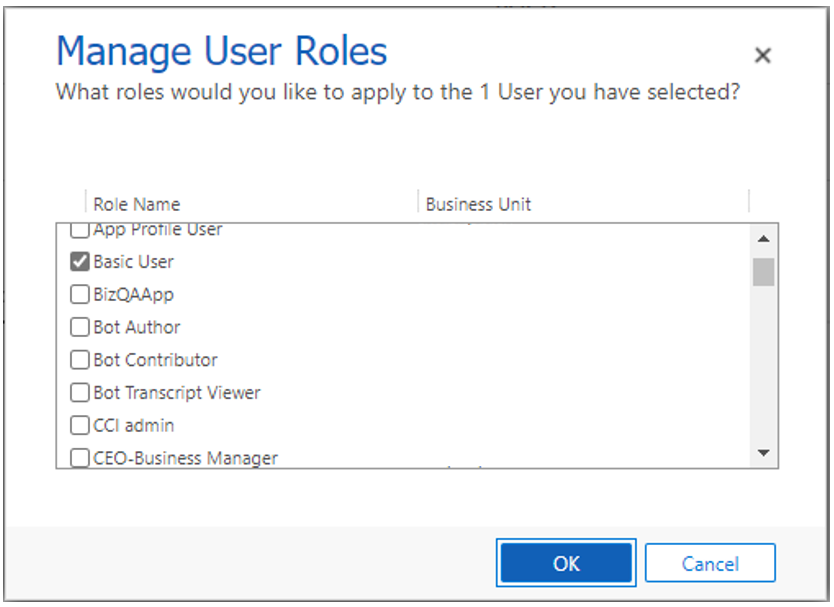
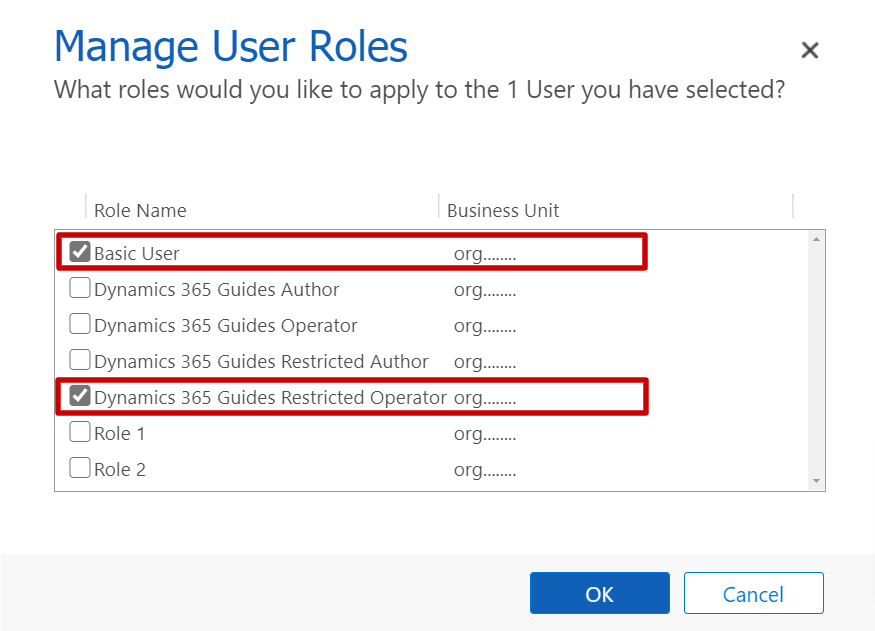
update to add address Cang's feedback

diff --git a/mr-docs/guides/assign-role.md b/mr-docs/guides/assign-role.md
@@ -13,12 +13,24 @@ ms.reviewer: v-brycho
 
 [!include [rename-banner](~/includes/cc-data-platform-banner.md)]
 
-If you're a Microsoft Dynamics 365 Guides admin, you can assign an **Author** or **Operator** role to users to limit what they can do in the apps. The following table describes the privileges that each role grants.
+If you're a Microsoft Dynamics 365 Guides admin, you can assign an **Author** or **Operator** role to users to limit what they can do in the apps. The additional **Restricted** provide an extra layer of control.  The following table describes the privileges that each role grants.
 
 | Role | Description |
 |---|---|
 | Author | Use the PC app and HoloLens app to create, edit, and operate guides. Users who have the **Author** role can also rename and deactivate existing guides. |
 | Operator | Use the HoloLens app to view and operate a guide. Users who have the **Operator** role can also save time by skipping the **Select Mode** dialog box when they open a guide. |
+|Restricted Author| Use the PC app and HoloLens app to create, edit, and operate guides or use guides content that the user created or was explicitly shared with them.|
+|Restricted Operator|  Use the HoloLens app to view and operate a guide or access guides content that the user created or was explicitly shared with them. |
+
+ Restricted Author and Restricted Operator roles are used to limit access to Guides. Users who are assigned the restricted Author or Operator roles **do not** inherit access to any Guides or Guide content (3D models, images, or videos) created in the environments that they are permitted to access.
+
+Users with the roles of Restricted Author and Restricted Operator will only have access to:
+
+- Guides that the user created.
+- Guides that were explicitly shared with them or shared with an owner team they are a member of.
+- Guides with ownerships that were assigned to the user or assigned to an owner team that the user is a member of.
+
+For more information on Restricted Author and Operator roles see [Share guides or guide content in Dynamics 365 Guides to expand access](https://docs.microsoft.com/dynamics365/mixed-reality/guides/admin-access-teams#assign-the-restricted-security-role)
 
 > [!IMPORTANT]
 > If you followed the instructions in the [Try or buy, and deploy Dynamics 365 Guides](setup.md) topic when you set up Dynamics 365 Guides, any users that you added were automatically assigned the **Author** role. You must explicitly assign the **Operator** role to specific users if you don't want them to have **Author** role privileges.
@@ -72,7 +84,7 @@ Before you can modify user roles, the following prerequisites must be in place:
 
 8. In the **Manage User Roles** dialog box, make sure that the **Basic User** check box is selected.
 
-    ![Basic User check box](media/manage-user-basic-user.PNG "Basic User check box")
+    ![Basic User check box](media/basic-user-role.PNG "Basic User check box")
     
     > [!NOTE]
     > You may see a **Common Data Service** check box instead of a **Basic User** check box. If so, select that check box. 

diff --git a/mr-docs/guides/admin-share-guides-hub.md b/mr-docs/guides/admin-share-guides-hub.md
@@ -33,13 +33,11 @@ https://docs.microsoft.com/powerapps/user/assign-or-share-records -->
 
     ![Copy the Instance URL value](media/copy-instance-url.jpg "Copy the Instance URL value")
 
-3. Sign in, and then select the **Guides** model-driven app.
-
-    ![Guides app](media/guides-model-driven-app.jpg "Guides app")
+3. Sign in, and select the **Guides** model-driven app from the "Guides" menu on the left.
 
 4. The interface for the Guides model-driven app will be available as  shown below:
 
-![Guide model-driven app example](media/Guides-Hub.png)
+![Guides model-driven app example](media/Guides-Hub.png "Guides model-driven app example")
 
 ## Limiting Access to the Guides model-driven app
 

diff --git a/mr-docs/guides/admin-access-teams.md b/mr-docs/guides/admin-access-teams.md
@@ -65,7 +65,7 @@ To prevent a specific user from accessing all guides by default, update the user
 
     4. Select **OK**.
 
-    ![Clear and select roles](media/access-teams-12.PNG "Clear and select roles")
+    ![Clear and select roles](media/manage-user-basic-user-restricted-op.PNG "Clear and select roles")
 
 ## Create an Access Team 
 
